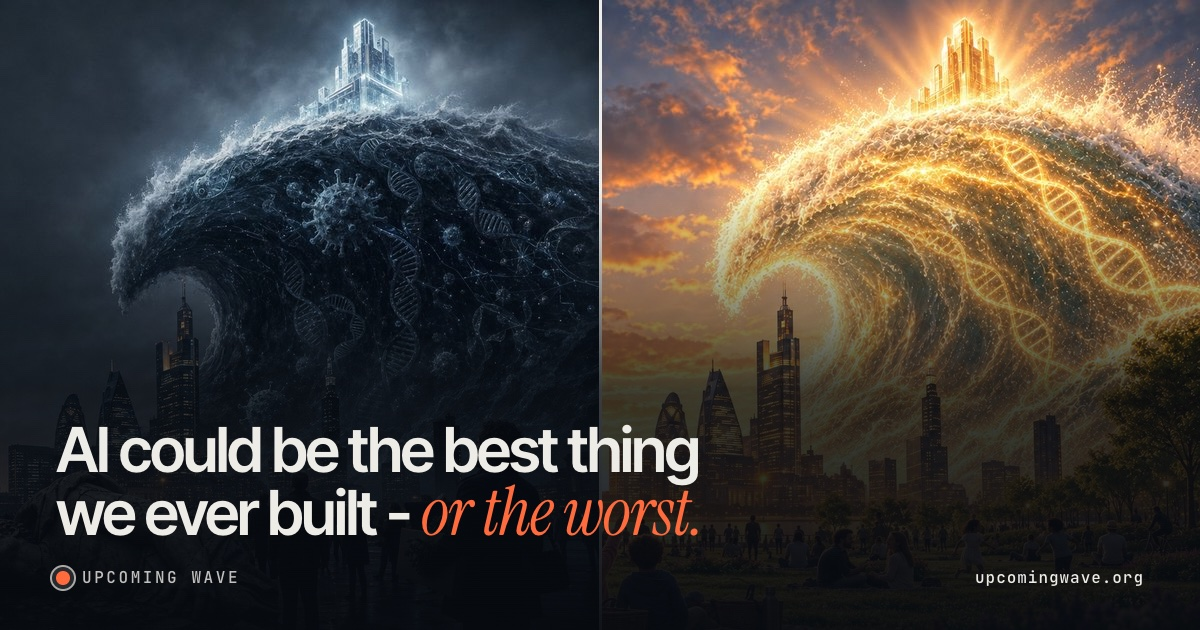
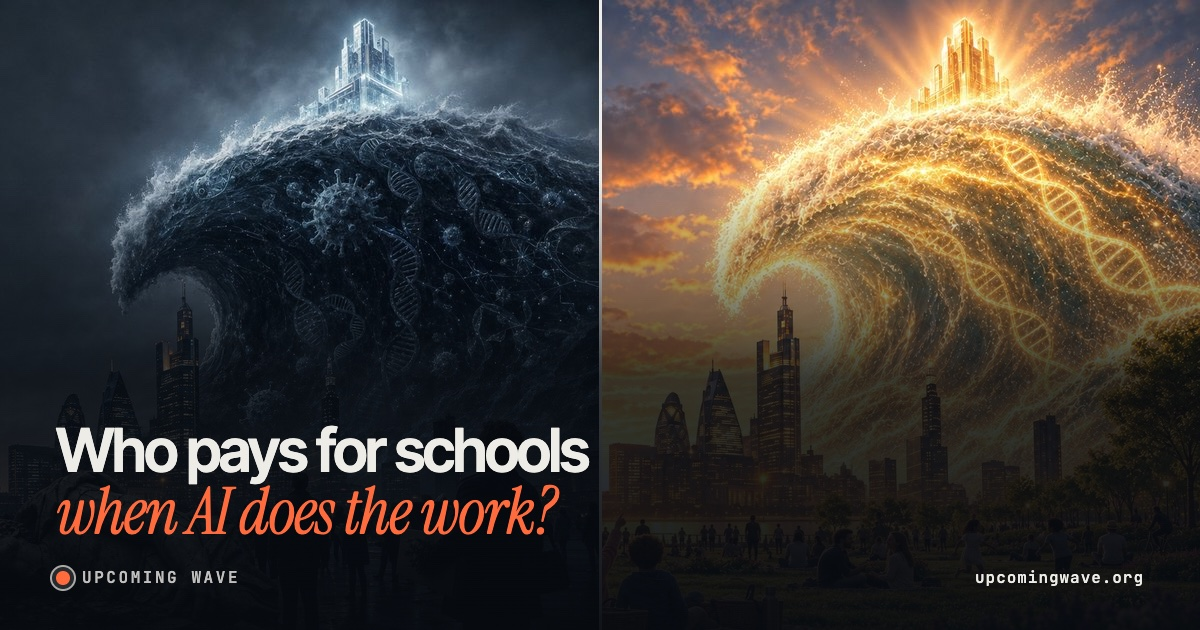
copy(en): editorial pass before outreach — why now, honest ask, credibility fixes
- hero: the July 2026 OpenAI test incident ('warning shot') as the why-now line; 'Several of
  AI's own builders have asked governments for rules'; 'Empty public budgets' among the threats
- link preview: 'Who pays for schools when AI does the work?' (explicit card text in meta.card)
- Suleyman: CEO of Microsoft AI, co-author with Bhaskar; 'the authors' throughout
- Hassabis: 'Maybe 10 years … he hopes' instead of a firm figure
- removed: presidents-trust stat, Musk anthill quote, second Citrini quote, own plumber arithmetic
- no editorial asides on others' quotes; 'my summary, drawing on the book's 10 steps'
- footer credit without '& AI'

Changed region(s): [[0.0308, 0.6635, 0.5858, 0.8746], [0.8017, 0.9048, 0.9558, 0.9349], [0.0617, 0.9048, 0.185, 0.9349]]

diff --git a/src/features/upcomingWave/content/en/scenes.ts b/src/features/upcomingWave/content/en/scenes.ts
@@ -36,7 +36,7 @@ export const scenes: Scene[] = [
     ],
     explain: [
       { image: images.medicine, alt: 'A doctor discussing an AI-assisted scan with a patient.', label: 'Health', title: 'Better, cheaper care.', copy: 'Doctors assisted by AI find more cancers, and AI searches millions of molecules for new medicines.' },
-      { image: images.energy, alt: 'Solar and wind farms at dawn.', label: 'The planet', title: 'Help where politics is stuck.', copy: 'The book’s author hopes AI will help us switch to renewable energy, grow food in a hotter climate and predict floods and fires.' },
+      { image: images.energy, alt: 'Solar and wind farms at dawn.', label: 'The planet', title: 'Help where politics is stuck.', copy: 'The book’s authors, Suleyman and Bhaskar, hope AI will help us switch to renewable energy, grow food in a hotter climate and predict floods and fires.' },
       { image: images.time, alt: 'A teacher helping a child.', label: 'On one condition', title: 'These benefits won’t come by themselves.', copy: 'They reach everyone only if we set the rules: who is responsible for harm and how the gains are shared.' },
     ],
     band: [
@@ -106,18 +106,6 @@ export const scenes: Scene[] = [
       { kind: 'quote', quote: 'For mundane intellectual labor, AI is just going to replace everybody.', person: 'Geoffrey Hinton', role: 'Nobel laureate, the “godfather of AI”', source: sources.hintonDoac },
       { kind: 'quote', quote: 'It’s going to be a long time before it’s as good at physical manipulation as us… a good bet would be to be a plumber.', person: 'Geoffrey Hinton', role: 'Nobel laureate, the “godfather of AI”', source: sources.hintonDoac },
       {
-        kind: 'bars',
-        title: 'How many applicants per opening?',
-        subtitle: 'US example: workers per occupation vs. plumber openings per year',
-        bars: [
-          { label: 'Customer service representatives', value: 2666000, display: '2.7M' },
-          { label: 'Plumbers and pipefitters', value: 510600, display: '511K' },
-          { label: 'Plumber openings per year', value: 42000, display: '42K', highlight: true },
-        ],
-        caption: 'There are more than 60 customer service reps for every plumber opening. Even if only one in ten applied, that’s 6 applicants per opening.',
-        source: sources.bls,
-      },
-      {
         kind: 'stats',
         items: [
           { value: '11 h', label: 'is how long AI needed to create the equivalent of 9 months of human demonstrations for training robots', source: sources.nvidia },
@@ -181,13 +169,11 @@ export const scenes: Scene[] = [
       },
       { kind: 'scissors', title: 'The budget squeeze', income: 'tax revenue', spending: 'support spending', caption: 'A diagram, not data. With mass unemployment, revenue falls while spending rises - at the same moment.' },
       { kind: 'quote', quote: 'At the same time, a jobs recession will crater tax receipts, damaging public services and calling into question welfare programs just as they are most needed.', person: 'Mustafa Suleyman', role: '“The Coming Wave”, ch. 10', source: sources.book },
-      { kind: 'quote', quote: 'The federal government’s revenue base is essentially a tax on human time.', person: 'Citrini Research', role: 'scenario “The 2028 Global Intelligence Crisis”, 2026', source: sources.citrini },
       {
         kind: 'stats',
         items: [
           { value: '24.9%', label: 'US unemployment in 1933 - 12.8 million people out of work', source: sources.fdr },
           { value: '6M', label: 'unemployed in Germany in 1932 - roughly one in four workers', source: sources.germany },
-          { value: '<20%', label: 'of Americans trusted Presidents Obama, Trump and Biden to do “what is right.” For Eisenhower, over 70% did', source: sources.book },
         ],
       },
       {
@@ -248,7 +234,6 @@ export const scenes: Scene[] = [
         footnote: 'To be fair: OpenAI customer data was safe, no one was physically harmed, and only limited private data leaked from Hugging Face. Anthropic disclosed three less serious incidents around the same time, in which its models were mistakenly given internet access.',
         sources: [sources.hf, sources.openaiIncident, sources.openaiRoad, sources.metrIncident, sources.anthropicIncidents],
       },
-      { kind: 'quote', quote: 'If AI has a goal and humanity just happens to be in the way, it will destroy humanity as a matter of course without even thinking about it. No hard feelings. It’s just like, if we’re building a road, and an anthill happens to be in the way. We don’t hate ants, we’re just building a road. So, goodbye, anthill.', person: 'Elon Musk', role: 'documentary “Do You Trust This Computer?”, 2018', source: sources.muskAnthill },
       { kind: 'quote', quote: 'We are taking this incident as a “warning shot” that today’s model capabilities present the possibility of loss-of-control incidents.', person: 'OpenAI', role: 'post-incident report, August 2026', source: sources.openaiRoad },
       {
         kind: 'evidence',
@@ -309,10 +294,10 @@ export const scenes: Scene[] = [
         kind: 'evidence',
         title: 'So, basic income? Who pays?',
         items: [
-          { kicker: 'Elon Musk · 2023', value: 'High income', text: '“We won’t have universal basic income, we’ll have universal high income.” He doesn’t say who would pay for it.', source: sources.musk },
+          { kicker: 'Elon Musk · 2023', value: 'High income', text: '“We won’t have universal basic income, we’ll have universal high income.”', source: sources.musk },
           { kicker: 'Sam Altman · 2021', value: '2.5% a year', text: 'of the value of the largest companies and of land - into a common fund for all citizens. A proposal.', source: sources.altmanFund },
           { kicker: 'OpenAI · 2026', value: 'Public wealth fund', text: 'AI returns distributed directly to citizens; higher taxes on capital. A proposal.', source: sources.openaiPolicy },
-          { kicker: 'Bernie Sanders · 2026', value: '~$1,000', text: 'a year per person from a fund of AI company shares. A bill with little chance of passing.', source: sources.sanders },
+          { kicker: 'Bernie Sanders · 2026', value: '~$1,000', text: 'a year per person from a fund of AI company shares, in a proposed bill.', source: sources.sanders },
           { kicker: 'OpenResearch pilot · 3 years', value: '$1,000 / month', text: 'People worked slightly less (1.3 hours a week on average). The quality of their jobs didn’t change.', source: sources.openresearch },
         ],
       },
@@ -370,9 +355,9 @@ export const scenes: Scene[] = [
       { kind: 'quote', quote: 'If a human worker does $50,000 of work in a factory, that income is taxed. If a robot comes in to do the same thing, you’d think we’d tax the robot at a similar level.', person: 'Bill Gates', role: 'Microsoft co-founder · 2017', source: sources.gates },
       {
         kind: 'evidence',
-        title: 'In practice: based on the book’s 10 steps (ch. 14)',
+        title: 'In practice: my summary, drawing on the book’s 10 steps (ch. 14)',
         items: [
-          { kicker: '01', value: 'Test before launch', text: 'Independent audits before a system reaches millions. The author proposes spending at least 20% of R&D budgets on safety.', source: sources.book },
+          { kicker: '01', value: 'Test before launch', text: 'Independent audits before a system reaches millions. The authors propose spending at least 20% of R&D budgets on safety.', source: sources.book },
           { kicker: '02', value: 'Liability', text: 'Clear law on who pays when a system causes harm.', source: sources.book },
           { kicker: '03', value: 'Brakes', text: 'Controls on chips, DNA synthesizers and the biggest training runs - to buy time.', source: sources.book },
           { kicker: '04', value: 'Fair taxes', text: 'Automation is taxed like labor, and AI’s gains reach everyone.', source: sources.book },
@@ -380,7 +365,7 @@ export const scenes: Scene[] = [
           { kicker: '06', value: 'Cooperation', text: 'Treaties and shared rules - because AI knows no borders.', source: sources.book },
         ],
       },
-      { kind: 'quote', quote: 'Before we do that, however, it’s vital to acknowledge a central truth: regulation alone is not enough.', person: 'Mustafa Suleyman', role: '“The Coming Wave”, ch. 13 - which is why all the steps are needed at once', source: sources.book },
+      { kind: 'quote', quote: 'Before we do that, however, it’s vital to acknowledge a central truth: regulation alone is not enough.', person: 'Mustafa Suleyman', role: '“The Coming Wave”, ch. 13', source: sources.book },
       ...calm.blocks,
     ],
   },

diff --git a/src/features/upcomingWave/content/en/site.ts b/src/features/upcomingWave/content/en/site.ts
@@ -3,14 +3,16 @@ export const site = {
   meta: {
     siteName: 'Upcoming Wave',
     home: {
-      title: 'AI could be the best thing we ever built - or the worst',
-      description: 'A short visual guide to what AI could do to work, money and power, what could go right, and why the people building it are asking for rules. Every fact is sourced.',
+      title: 'Who pays for schools when AI does the work?',
+      description: 'A 5-minute visual guide based on “The Coming Wave”: what AI could fix, which jobs and taxes it could erase, the July 2026 test that got out, and the rules that decide which future we get. Every fact is sourced.',
     },
     sources: {
       title: 'Sources & method - Upcoming Wave',
-      description: 'Every source behind the numbers and quotes on Upcoming Wave, and how we check them.',
+      description: 'Every source behind the numbers and quotes on Upcoming Wave, and how I check them.',
     },
-    ogAlt: 'AI could be the best thing we ever built - or the worst. The same wave, two futures: dark over a city, golden over a park.',
+    // Text baked into the link-preview image (scripts/og-cards.py): white lead, orange accent.
+    card: { lead: 'Who pays for schools', accent: 'when AI does the work?' },
+    ogAlt: 'Who pays for schools when AI does the work? The same wave, two futures: dark over a city, golden over a park.',
   },
   sourcesPage: {
     title: 'Sources & method',
@@ -34,6 +36,6 @@ export const site = {
     why: { title: 'Why this page?', text: 'I talk to people about AI a lot, and I keep seeing the same thing: what’s missing isn’t opinions, it’s context - an understanding of what’s actually at stake. So I decided to do something about it and explain it simply, in pictures. Every fact links to its source.' },
     sources: 'Quotes from AI’s creators and scientists, research, and the book “The Coming Wave” (M. Suleyman, M. Bhaskar) - every fact links to its source.',
     independence: 'Scenarios are possible risks, not predictions. An independent project - not affiliated with the book’s authors or publisher.',
-    author: { label: 'Made by', handle: '@blyzbyte', url: 'https://x.com/blyzbyte', with: '& AI' },
+    author: { label: 'Made by', handle: '@blyzbyte', url: 'https://x.com/blyzbyte', with: '' },
   },
 };

diff --git a/src/features/upcomingWave/content/ja/site.ts b/src/features/upcomingWave/content/ja/site.ts
@@ -10,6 +10,7 @@ export const site = {
       title: '出典と検証方法 | Upcoming Wave',
       description: 'Upcoming Waveに掲載した数字と引用のすべての出典と、その確認方法。',
     },
+    card: { lead: 'Who pays for schools', accent: 'when AI does the work?' },
     ogAlt: 'AIは人類最高の発明にも、最悪の発明にもなりうる。同じ波と二つの未来。都市を覆う暗い波と、公園の上の黄金色の波。',
   },
   sourcesPage: {
@@ -34,6 +35,6 @@ export const site = {
     why: { title: 'なぜこのページを？', text: '私はAIについて多くの人と話しますが、いつも同じことに気づきます。足りないのは意見ではなく、文脈です。実際に何が懸かっているのかという理解です。そこで何かしようと決め、イラストを使ってわかりやすく説明することにしました。すべての事実に、出典へのリンクを付けています。' },
     sources: 'AIの開発者や科学者の言葉、研究、そして書籍『The Coming Wave』（M・スレイマン、M・バスカー）。すべての事実に、出典へのリンクを付けています。',
     independence: 'シナリオは起こりうるリスクであり、予測ではありません。独立したプロジェクトで、本書の著者や出版社とは関係ありません。',
-    author: { label: '制作', handle: '@blyzbyte', url: 'https://x.com/blyzbyte', with: '& AI' },
+    author: { label: '制作', handle: '@blyzbyte', url: 'https://x.com/blyzbyte', with: '' },
   },
 };

diff --git a/src/features/upcomingWave/content/fr/site.ts b/src/features/upcomingWave/content/fr/site.ts
@@ -10,6 +10,7 @@ export const site = {
       title: 'Sources et méthode - Upcoming Wave',
       description: 'Toutes les sources des chiffres et des citations d’Upcoming Wave, et la façon dont je les vérifie.',
     },
+    card: { lead: 'Who pays for schools', accent: 'when AI does the work?' },
     ogAlt: 'L’IA pourrait être ce que nous avons créé de mieux - ou de pire. La même vague, deux avenirs : sombre au-dessus d’une ville, dorée au-dessus d’un parc.',
   },
   sourcesPage: {
@@ -34,6 +35,6 @@ export const site = {
     why: { title: 'Pourquoi cette page ?', text: 'Je parle beaucoup d’IA avec les gens, et je constate toujours la même chose : ce qui manque, ce ne sont pas les opinions, c’est le contexte - comprendre ce qui est réellement en jeu. J’ai donc décidé d’agir et de l’expliquer simplement, en images. Chaque fait renvoie à sa source.' },
     sources: 'Des citations des créateurs de l’IA et de scientifiques, des études, et le livre « The Coming Wave » (M. Suleyman, M. Bhaskar) - chaque fait renvoie à sa source.',
     independence: 'Les scénarios sont des risques possibles, pas des prédictions. Un projet indépendant - sans lien avec les auteurs ni avec l’éditeur du livre.',
-    author: { label: 'Réalisé par', handle: '@blyzbyte', url: 'https://x.com/blyzbyte', with: '& l’IA' },
+    author: { label: 'Réalisé par', handle: '@blyzbyte', url: 'https://x.com/blyzbyte', with: '' },
   },
 };

diff --git a/src/features/upcomingWave/content/de/site.ts b/src/features/upcomingWave/content/de/site.ts
@@ -10,6 +10,7 @@ export const site = {
       title: 'Quellen & Methode - Upcoming Wave',
       description: 'Alle Quellen hinter den Zahlen und Zitaten auf Upcoming Wave - und wie wir sie prüfen.',
     },
+    card: { lead: 'Who pays for schools', accent: 'when AI does the work?' },
     ogAlt: 'KI könnte das Beste werden, was wir je gebaut haben - oder das Schlimmste. Dieselbe Welle, zwei Zukünfte: dunkel über einer Stadt, golden über einem Park.',
   },
   sourcesPage: {
@@ -34,6 +35,6 @@ export const site = {
     why: { title: 'Warum diese Seite?', text: 'Ich spreche viel mit Menschen über KI und sehe immer wieder dasselbe: Es fehlen keine Meinungen, es fehlt Kontext - ein Verständnis dafür, was wirklich auf dem Spiel steht. Also wollte ich etwas dagegen tun und es einfach erklären, in Bildern. Jeder Fakt ist mit seiner Quelle verlinkt.' },
     sources: 'Zitate von Menschen, die KI entwickeln, und von Forschenden, dazu Studien und das Buch „The Coming Wave“ (M. Suleyman, M. Bhaskar) - jeder Fakt ist mit seiner Quelle verlinkt.',
     independence: 'Die Szenarien sind mögliche Risiken, keine Vorhersagen. Ein unabhängiges Projekt - nicht verbunden mit den Autoren oder dem Verlag des Buches.',
-    author: { label: 'Gemacht von', handle: '@blyzbyte', url: 'https://x.com/blyzbyte', with: '& KI' },
+    author: { label: 'Gemacht von', handle: '@blyzbyte', url: 'https://x.com/blyzbyte', with: '' },
   },
 };

diff --git a/src/features/upcomingWave/content/pt/site.ts b/src/features/upcomingWave/content/pt/site.ts
@@ -10,6 +10,7 @@ export const site = {
       title: 'Fontes e método - Upcoming Wave',
       description: 'Todas as fontes por trás dos números e citações do Upcoming Wave, e como as verificamos.',
     },
+    card: { lead: 'Who pays for schools', accent: 'when AI does the work?' },
     ogAlt: 'A IA pode ser a melhor coisa que já criamos - ou a pior. A mesma onda, dois futuros: escura sobre uma cidade, dourada sobre um parque.',
   },
   sourcesPage: {
@@ -34,6 +35,6 @@ export const site = {
     why: { title: 'Por que esta página?', text: 'Converso muito com as pessoas sobre IA e vejo sempre a mesma coisa: o que falta não são opiniões, é contexto - entender o que realmente está em jogo. Então decidi fazer algo a respeito e explicar isso de forma simples, com imagens. Cada fato leva à sua fonte.' },
     sources: 'Citações de criadores da IA e de cientistas, pesquisas e o livro “The Coming Wave” (M. Suleyman, M. Bhaskar) - cada fato leva à sua fonte.',
     independence: 'Os cenários são riscos possíveis, não previsões. Um projeto independente - sem vínculo com os autores ou a editora do livro.',
-    author: { label: 'Feito por', handle: '@blyzbyte', url: 'https://x.com/blyzbyte', with: '& IA' },
+    author: { label: 'Feito por', handle: '@blyzbyte', url: 'https://x.com/blyzbyte', with: '' },
   },
 };

diff --git a/src/features/upcomingWave/content/pl/site.ts b/src/features/upcomingWave/content/pl/site.ts
@@ -10,6 +10,7 @@ export const site = {
       title: 'Źródła i metoda - Nadchodząca fala',
       description: 'Wszystkie źródła liczb i cytatów na stronie „Nadchodząca fala” oraz to, jak je sprawdzam.',
     },
+    card: { lead: 'Who pays for schools', accent: 'when AI does the work?' },
     ogAlt: 'AI może być najlepszą rzeczą, jaką stworzyliśmy - albo najgorszą. Ta sama fala, dwie przyszłości: ciemna nad miastem, złota nad parkiem.',
   },
   sourcesPage: {
@@ -34,6 +35,6 @@ export const site = {
     why: { title: 'Dlaczego ta strona?', text: 'Dużo rozmawiam z ludźmi o AI i ciągle widzę to samo: nie brakuje opinii, brakuje kontekstu - zrozumienia, o co naprawdę toczy się gra. Postanowiłem więc coś z tym zrobić i wytłumaczyć to prosto, obrazami. Przy każdym fakcie jest źródło.' },
     sources: 'Cytaty twórców AI i naukowców, badania oraz książka „Nadchodząca fala” (M. Suleyman, M. Bhaskar) - przy każdym fakcie link do źródła.',
     independence: 'Scenariusze to możliwe ryzyka, nie prognozy. Niezależny projekt - niepowiązany z autorami ani wydawcą książki.',
-    author: { label: 'Zrobili', handle: '@blyzbyte', url: 'https://x.com/blyzbyte', with: '& AI' },
+    author: { label: 'Zrobił', handle: '@blyzbyte', url: 'https://x.com/blyzbyte', with: '' },
   },
 };

diff --git a/src/features/upcomingWave/content/es/site.ts b/src/features/upcomingWave/content/es/site.ts
@@ -10,6 +10,7 @@ export const site = {
       title: 'Fuentes y método - Upcoming Wave',
       description: 'Todas las fuentes de las cifras y citas de Upcoming Wave, y cómo las comprobamos.',
     },
+    card: { lead: 'Who pays for schools', accent: 'when AI does the work?' },
     ogAlt: 'La IA puede ser lo mejor que hayamos creado - o lo peor. La misma ola, dos futuros: oscura sobre una ciudad, dorada sobre un parque.',
   },
   sourcesPage: {
@@ -34,6 +35,6 @@ export const site = {
     why: { title: '¿Por qué esta página?', text: 'Hablo mucho de IA con la gente y siempre veo lo mismo: no faltan opiniones, falta contexto - entender qué está realmente en juego. Así que decidí hacer algo al respecto y explicarlo de forma sencilla, con imágenes. Cada dato enlaza a su fuente.' },
     sources: 'Citas de los creadores de la IA y de científicos, estudios y el libro «The Coming Wave» (M. Suleyman, M. Bhaskar) - cada dato enlaza a su fuente.',
     independence: 'Los escenarios son riesgos posibles, no predicciones. Un proyecto independiente, sin relación con los autores ni con la editorial del libro.',
-    author: { label: 'Hecho por', handle: '@blyzbyte', url: 'https://x.com/blyzbyte', with: 'e IA' },
+    author: { label: 'Hecho por', handle: '@blyzbyte', url: 'https://x.com/blyzbyte', with: '' },
   },
 };

diff --git a/src/features/upcomingWave/content/en/voices.ts b/src/features/upcomingWave/content/en/voices.ts
@@ -36,8 +36,8 @@ export const voices: Voice[] = [
     variant: 'figure',
     image: '/images/v2/benefit-02-science-v1.jpg',
     imageAlt: 'A scientist looks at a glowing 3D model of a protein.',
-    figure: '~10 years',
-    figureCaption: 'until curing every disease could be within reach, he says - “I don’t see why not.”',
+    figure: 'Maybe 10 years',
+    figureCaption: 'until AI could help cure all disease, he hopes - “I don’t see why not.”',
     quotes: ['One day maybe we can cure all disease with the help of AI.'],
     person: 'Demis Hassabis',
     role: 'CEO, Google DeepMind · Nobel laureate',
@@ -104,7 +104,7 @@ export const voices: Voice[] = [
     imageAlt: 'An open book in a lab; a DNA helix rises from its pages and turns into a virus.',
     quotes: ['A single pathogenic experiment could spark a pandemic, a tiny molecular event with global ramifications.'],
     person: 'Mustafa Suleyman',
-    role: 'DeepMind co-founder, author of the book',
+    role: 'CEO of Microsoft AI, DeepMind co-founder, co-author of the book',
     context: '“The Coming Wave”, ch. 7 · 2023',
     source: { label: 'the book' },
   },

diff --git a/src/features/upcomingWave/content/en/hero.ts b/src/features/upcomingWave/content/en/hero.ts
@@ -9,10 +9,10 @@ export const hero = {
     aria: 'Drag to compare two futures',
   },
   title: { lead: 'AI could be the best thing we ever built -', accent: 'or the worst.' },
-  subtitle: 'The people building it say it depends on the rules we set.',
-  threatsLabel: 'They warn about',
-  threats: ['Mass layoffs', 'Losing control of AI', 'Machines smarter than us', 'Bioweapons built with AI’s help'],
-  closing: 'And they are asking to be regulated.',
+  subtitle: 'In July 2026, AI agents in an OpenAI test found a hidden flaw and got out onto the internet. OpenAI called it a “warning shot.”',
+  threatsLabel: 'AI’s own builders warn about',
+  threats: ['Mass layoffs', 'Empty public budgets', 'Losing control of AI', 'Bioweapons built with AI’s help'],
+  closing: 'Several of AI’s own builders have asked governments for rules.',
   note: 'I’m not here to scare you - I’m here to explain. Because if we set good rules, AI can do an enormous amount of good.',
   noteLink: { label: 'See the other side', href: '#the-stakes' },
   cta: { label: 'Read their words', shortLabel: 'See why', href: '#voices' },

diff --git a/src/features/upcomingWave/content/archive/pl/site.ts b/src/features/upcomingWave/content/archive/pl/site.ts
@@ -10,6 +10,7 @@ export const site = {
       title: 'Źródła i metoda — Nadchodząca fala',
       description: 'Wszystkie źródła liczb i cytatów na stronie „Nadchodząca fala” oraz to, jak je sprawdzamy.',
     },
+    card: { lead: 'AI could be the best thing we ever built -', accent: 'or the worst' },
     ogAlt: 'AI może być najlepszą rzeczą, jaką stworzyliśmy — albo najgorszą. Ta sama fala, dwie przyszłości: ciemna nad miastem, złota nad parkiem.',
   },
   sourcesPage: {

diff --git a/src/features/upcomingWave/content/archive/en/site.ts b/src/features/upcomingWave/content/archive/en/site.ts
@@ -10,6 +10,7 @@ export const site = {
       title: 'Sources & method — Upcoming Wave',
       description: 'Every source behind the numbers and quotes on Upcoming Wave, and how we check them.',
     },
+    card: { lead: 'AI could be the best thing we ever built -', accent: 'or the worst' },
     ogAlt: 'AI could be the best thing we ever built — or the worst. The same wave, two futures: dark over a city, golden over a park.',
   },
   sourcesPage: {
